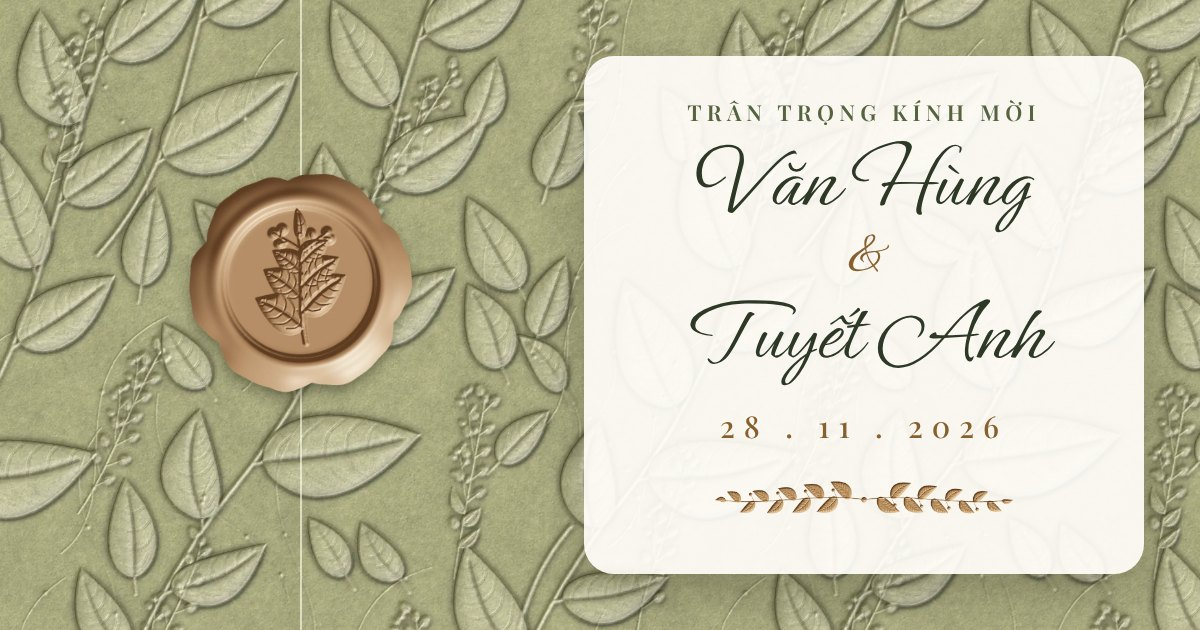
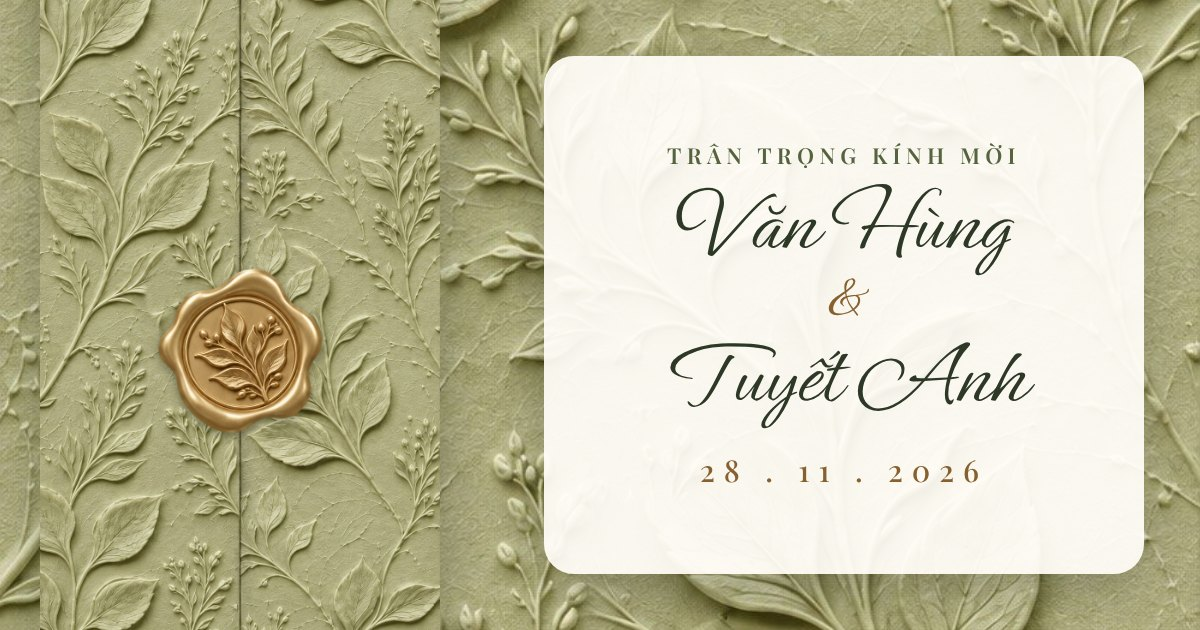
Mẫu xanh pastel: dùng ảnh bìa của chủ thiệp cho bìa, trang trong và giấy kem
- Tách dấu sáp khỏi ảnh bìa thành ảnh riêng nền trong suốt; vá nền chỗ dấu sáp
  bằng hoạ tiết cùng cánh; căn đường gáp vào giữa ảnh (assets/bia/bia.jpg)
- Dấu sáp đặt đúng vị trí trên ảnh (cover.sealAt), vẫn nhấc lên khi mở thiệp
- Trang trong: ghép hai cánh bỏ đường gáp, dùng cho đầu thiệp, lời mời, câu chuyện
- Giấy kem dập nổi nhẹ làm từ chính hoạ tiết lá của ảnh, ô lặp liền theo chiều dọc
- Phong bì quà dùng dấu sáp mới; ảnh chia sẻ link và ảnh README cập nhật
- tools/hoa-tiet: thêm tach_bia.py và giay_kem_tu_anh.py

Claude-Session: https://claude.ai/code/session_015XKduHNmYjq2tWTLnQVHa5

diff --git a/xanh-pastel/js/main.js b/xanh-pastel/js/main.js
@@ -35,25 +35,40 @@
     sprig: function () { return motif('canh-la-vang.webp'); },
     garland: function () { return motif('day-la-vang.webp'); },
   };
+  /* ---------- Ảnh bìa của chủ thiệp (config.js → cover) ---------- */
   var cov = W.cover || {};
+  function cssUrl(p) { return 'url("' + new URL(p, location.href).href.replace(/"/g, '%22') + '")'; }
   var SEAL = '<img class="seal-img" src="' + esc(cov.seal || 'assets/dau-sap-vang.webp') + '" alt="" aria-hidden="true" decoding="async">';
   if (cov.seal) body.classList.add('custom-seal');
-  // Ảnh bìa đã mua bản quyền: phủ kín 2 cánh bìa (mỗi cánh một nửa ảnh) và phần đầu thiệp
+  if (cov.inner) { root.style.setProperty('--inner-paper', cssUrl(cov.inner)); body.classList.add('custom-inner'); }
+  if (cov.cream) root.style.setProperty('--cream-paper', cssUrl(cov.cream));
+  // Bìa: hai cánh ghép thành đúng một ảnh phủ kín màn hình; dấu sáp đặt đúng chỗ của nó trên ảnh
+  var coverReady = Promise.resolve();
   if (cov.paper) {
     var coverImg = new Image();
-    root.style.setProperty('--cover-paper', 'url("' + new URL(cov.paper, location.href).href.replace(/"/g, '%22') + '")');
+    root.style.setProperty('--cover-paper', cssUrl(cov.paper));
     body.classList.add('custom-cover');
     var fitCover = function () {
       if (!coverImg.naturalWidth) return;
-      var gw = Math.min(window.innerWidth, 480), gh = window.innerHeight;
+      var vw = window.innerWidth, gw = Math.min(vw, 480), gh = window.innerHeight;
       var k = Math.max(gw / coverImg.naturalWidth, gh / coverImg.naturalHeight);
       var w = coverImg.naturalWidth * k, h = coverImg.naturalHeight * k;
       root.style.setProperty('--cov-size', w + 'px ' + h + 'px');
       root.style.setProperty('--cov-x-l', (gw - w) / 2 + 'px');
       root.style.setProperty('--cov-x-r', (gw - w) / 2 - gw / 2 + 'px');
       root.style.setProperty('--cov-y', (gh - h) / 2 + 'px');
+      var at = cov.sealAt, go = $('#gateOpen');
+      if (at && go) {
+        go.style.left = (vw - gw) / 2 + (gw - w) / 2 + at.x * w + 'px';
+        go.style.top = (gh - h) / 2 + at.y * h + 'px';
+        go.style.width = at.w * w + 'px';
+      }
+      body.classList.add('cover-fit');
     };
-    coverImg.onload = fitCover;
+    coverReady = new Promise(function (res) {
+      coverImg.onload = function () { fitCover(); res(); };
+      coverImg.onerror = function () { body.classList.remove('custom-cover'); res(); };
+    });
     coverImg.src = cov.paper;
     window.addEventListener('resize', fitCover);
   }
@@ -546,6 +561,7 @@
   /* ---------- Bìa hiện ra khi phông chữ đã sẵn sàng ---------- */
   var readyDone = false;
   function ready() { if (!readyDone) { readyDone = true; body.classList.add('ready'); setTimeout(buildOpening, 60); } }
-  if (document.fonts && document.fonts.ready) document.fonts.ready.then(ready);
-  setTimeout(ready, 1500);
+  // chờ phông chữ và ảnh bìa (tối đa ~2,5 giây) rồi mới cho dấu sáp hiện ra
+  Promise.all([document.fonts && document.fonts.ready ? document.fonts.ready : null, coverReady]).then(ready);
+  setTimeout(ready, 2500);
 })();

diff --git a/xanh-pastel/css/style.css b/xanh-pastel/css/style.css
@@ -57,12 +57,16 @@ section { position: relative; }
 /* ---------- Giấy dập nổi lá cây (ô lặp liền mạch) ---------- */
 .sage, .cream { background-size: 100% auto; background-repeat: repeat-y; background-position: center var(--by, 0px); }
 .sage { background-color: var(--sage); background-image: var(--sage-paper); }
-/* Ảnh bìa đã mua (cover.paper): 2 cánh ghép thành một ảnh phủ kín màn hình, đầu thiệp dùng cùng ảnh */
+/* Ảnh bìa của chủ thiệp (cover.paper): 2 cánh ghép thành một ảnh phủ kín màn hình; ảnh đã có sẵn đường gáp và bóng */
 .custom-cover .door { background-size: var(--cov-size, cover); background-repeat: no-repeat; }
+.custom-cover:not(.cover-fit) .door { background-image: none; }
 .custom-cover .door.l { background-position: var(--cov-x-l, 0) var(--cov-y, 0); }
-.custom-cover .door.r { background-position: var(--cov-x-r, 0) var(--cov-y, 0); }
-.custom-cover .hero { background-image: var(--cover-paper); background-size: cover; background-position: center; background-repeat: no-repeat; }
-.custom-seal .gate-seal .sheen { display: none; }
+.custom-cover .door.r { background-position: var(--cov-x-r, 0) var(--cov-y, 0); box-shadow: none; }
+.custom-cover .door.r::after { display: none; }
+.custom-cover:not(.custom-inner) .hero { background-image: var(--cover-paper); background-size: cover; background-position: center; background-repeat: no-repeat; }
+/* Trang trong (cover.inner): đầu thiệp, lời mời, câu chuyện — mỗi phần phủ kín một ảnh, không lặp */
+.custom-inner .sage { background-image: var(--inner-paper); background-size: cover; background-position: center; background-repeat: no-repeat; }
+.custom-seal .gate-seal .sheen { left: 12%; top: 11%; width: 76%; }
 .cream { background-color: var(--cream); background-image: var(--cream-paper); }
 
 /* ---------- Mép giấy xé ---------- */

diff --git a/xanh-pastel/js/config.js b/xanh-pastel/js/config.js
@@ -18,10 +18,12 @@ window.WEDDING = {
   cover: {
     hint: 'Chạm để mở thiệp',
     guestPrefix: 'Thân gửi', // hiện trên bìa khi link có ?to=
-    // ẢNH BÌA ĐÃ MUA BẢN QUYỀN (ví dụ từ Petit Moments). Để trống thì dùng giấy + dấu sáp tự vẽ.
-    // Chép file vào xanh-pastel/assets/bia/ rồi ghi tên, ví dụ  paper: 'assets/bia/giay.jpg',
-    paper: '', // nền giấy KHÔNG có dấu sáp (dọc, nên 1080×1920 trở lên): dùng cho 2 cánh bìa và đầu thiệp
-    seal: '',  // dấu sáp riêng, nền trong suốt (PNG/WebP): nằm giữa đường gáp, nhấc lên khi mở
+    // ẢNH BÌA CỦA CHỦ THIỆP (thư mục xanh-pastel/assets/bia/). Để trống cả 4 dòng thì dùng giấy + dấu sáp tự vẽ.
+    paper: 'assets/bia/bia.jpg',          // bìa 2 cánh, đã xoá dấu sáp; đường gáp nằm đúng giữa ảnh
+    seal: 'assets/bia/dau-sap.webp',      // dấu sáp tách riêng, nền trong suốt; nhấc lên khi mở
+    sealAt: { x: 0.4829, y: 0.4746, w: 0.4839 }, // vị trí dấu sáp trên ảnh bìa: tâm (x, y) và bề rộng, theo tỉ lệ ảnh
+    inner: 'assets/bia/trang-trong.jpg',  // trang trong (2 cánh ghép liền, không đường gáp): đầu thiệp, lời mời, câu chuyện
+    cream: 'assets/bia/giay-kem.jpg',     // giấy kem cùng hoạ tiết lá: nền các phần còn lại
   },
 
   families: {

diff --git a/tools/hoa-tiet/tach_bia.py b/tools/hoa-tiet/tach_bia.py
@@ -1,0 +1,131 @@
+# Tách ảnh bìa của chủ thiệp: dấu sáp riêng (nền trong suốt) + nền giấy đã xoá dấu sáp + trang trong (không đường gáp)
+# Dùng: python3 tools/hoa-tiet/tach_bia.py anh-bia.png thu-muc-ra   (sửa SEAM = cột đường gáp, cy/cx = một điểm trên dấu sáp nếu đổi ảnh khác)
+import sys, os, math
+import numpy as np
+from PIL import Image, ImageFilter
+
+
+def gblur(a, s):
+    """Làm mờ Gauss bằng FFT."""
+    if s <= 0:
+        return a
+    hh, ww = a.shape
+    fy = np.fft.fftfreq(hh)[:, None]
+    fx = np.fft.rfftfreq(ww)[None, :]
+    g = np.exp(-2 * (math.pi ** 2) * (s ** 2) * (fx ** 2 + fy ** 2))
+    return np.fft.irfft2(np.fft.rfft2(a) * g, s=a.shape)
+
+src, out = sys.argv[1], sys.argv[2]
+os.makedirs(out, exist_ok=True)
+im = Image.open(src).convert('RGB')
+A = np.asarray(im).astype(np.float64)
+h, w, _ = A.shape
+SEAM = 474
+
+
+def flood(mask, seeds):
+    """Lan từ các điểm hạt giống trong mặt nạ (4 hướng), không cần scipy."""
+    reach = np.zeros_like(mask)
+    for (y, x) in seeds:
+        reach[y, x] = mask[y, x]
+    while True:
+        n = reach.copy()
+        n[1:] |= reach[:-1]; n[:-1] |= reach[1:]; n[:, 1:] |= reach[:, :-1]; n[:, :-1] |= reach[:, 1:]
+        n &= mask
+        if (n == reach).all():
+            return reach
+        reach = n
+
+
+def dilate(m, r):
+    return gblur(m.astype(float), r) > .02
+
+
+def erode(m, r):
+    return gblur(m.astype(float), r) > .98
+
+
+# ---- 1. Mặt nạ dấu sáp: điểm vàng (đỏ − lam lớn), lan từ tâm, lấp lỗ ----
+R, G, B = A[..., 0], A[..., 1], A[..., 2]
+gold = (R - B > 62) & (R > 95)
+cy, cx = 760, 430
+gold[:300] = False; gold[1100:] = False
+blob = flood(gold, [(cy, cx), (700, 430), (820, 430), (760, 380), (760, 480)])
+# lấp lỗ: phần không lan tới được từ mép ảnh
+outside = flood(~blob, [(0, 0), (h - 1, w - 1), (0, w - 1), (h - 1, 0)])
+blob = ~outside
+# làm tròn mép: mở nhẹ để bỏ gai
+blob = erode(dilate(blob, 1.2), 1.2)
+ys, xs = np.nonzero(blob)
+print('seal bbox', xs.min(), xs.max(), ys.min(), ys.max(), 'area', blob.sum())
+
+# ---- 2. Ảnh dấu sáp nền trong suốt (mép co 1px để không dính viền xanh) + bóng mềm ----
+core = erode(blob, .9)
+alpha = np.clip(gblur(core.astype(float), .7) * 1.15, 0, 1)
+pad = 40
+x0, x1, y0, y1 = xs.min() - pad, xs.max() + pad, ys.min() - pad, ys.max() + pad
+# màu mép: kéo màu từ trong ra để tránh viền xanh
+col = A.copy()
+inner = erode(blob, 3)
+for _ in range(6):
+    m = inner.astype(float)
+    s = gblur(m, 1.5)
+    filled = np.stack([gblur(col[..., c] * m, 1.5) for c in range(3)], -1) / np.maximum(s, 1e-6)[..., None]
+    grow = (~inner) & (s > .2)
+    col[grow] = filled[grow]
+    inner = inner | grow
+col = np.where(erode(blob, 3)[..., None], A, col)
+shadow = gblur(np.roll(blob.astype(float), 7, 0), 9) * .45
+sh_a = shadow * (1 - alpha)
+out_a = alpha + sh_a
+rgb = (col * alpha[..., None] + np.array([40, 44, 24]) * sh_a[..., None]) / np.maximum(out_a, 1e-6)[..., None]
+seal = np.dstack([np.clip(rgb, 0, 255), np.clip(out_a * 255, 0, 255)])[y0:y1, x0:x1].astype(np.uint8)
+Image.fromarray(seal, 'RGBA').save(os.path.join(out, 'dau-sap.png'))
+print('seal png', seal.shape, 'box', x0, y0)
+
+# ---- 3. Vá nền chỗ dấu sáp (kèm bóng): chép vùng cùng cột ở chỗ khác của cùng cánh, hoà mép ----
+hole = dilate(blob, 9)
+feather = np.clip(gblur(hole.astype(float), 7) * 1.6, 0, 1)
+best = {}
+ring = dilate(hole, 6) & ~hole
+for side, xr in (('L', (0, SEAM + 3)), ('R', (SEAM - 3, w))):
+    sel = np.zeros((h, w), bool); sel[:, xr[0]:xr[1]] = True
+    rg = ring & sel
+    ry, rx = np.nonzero(rg)
+    cand = []
+    for dy in list(range(-620, -330, 6)) + list(range(330, 620, 6)):
+        sy = ry + dy
+        ok = (sy >= 0) & (sy < h)
+        if ok.mean() < .99:
+            continue
+        d = ((A[sy[ok], rx[ok]] - A[ry[ok], rx[ok]]) ** 2).mean()
+        cand.append((d, dy))
+    cand.sort()
+    best[side] = cand[0][1]
+print('chosen offsets', best)
+P = A.copy()
+for side, xr in (('L', (0, SEAM)), ('R', (SEAM, w))):
+    dy = best[side]
+    src_sh = np.roll(A, -dy, 0)
+    sl = slice(xr[0], xr[1])
+    P[:, sl] = A[:, sl] * (1 - feather[:, sl, None]) + src_sh[:, sl] * feather[:, sl, None]
+# giữ nguyên dải đường gáp (lấy từ nguồn để liền mạch theo chiều dọc)
+paper = P.astype(np.uint8)
+# căn đường gáp vào giữa ảnh
+L = SEAM - (w - SEAM)
+cover = paper[:, L:] if L > 0 else paper
+Image.fromarray(cover).save(os.path.join(out, 'bia.jpg'), quality=90)
+print('cover', cover.shape, 'seam at', SEAM - max(L, 0))
+sx = (x0 + x1) / 2 - max(L, 0)
+sy = (y0 + y1) / 2
+print('sealAt x=%.4f y=%.4f w=%.4f' % (sx / cover.shape[1], sy / cover.shape[0], (x1 - x0) / cover.shape[1]))
+
+# ---- 4. Trang trong: ghép hai cánh bỏ dải đường gáp, hoà chỗ nối ----
+lcut, rcut = SEAM - 26, SEAM + 14
+left, right = paper[:, :lcut].astype(float), paper[:, rcut:].astype(float)
+ov = 36
+wgt = np.linspace(0, 1, ov)[None, :, None]
+join = left[:, -ov:] * (1 - wgt) + right[:, :ov] * wgt
+inner_pg = np.concatenate([left[:, :-ov], join, right[:, ov:]], 1)
+Image.fromarray(np.clip(inner_pg, 0, 255).astype(np.uint8)).save(os.path.join(out, 'trang-trong.jpg'), quality=90)
+print('inner', inner_pg.shape)

diff --git a/tools/hoa-tiet/giay_kem_tu_anh.py b/tools/hoa-tiet/giay_kem_tu_anh.py
@@ -1,0 +1,27 @@
+# Giấy kem dập nổi nhẹ làm từ trang trong của ảnh bìa (giữ hoạ tiết lá, ô lặp liền theo chiều dọc)
+# Dùng: python3 tools/hoa-tiet/giay_kem_tu_anh.py trang-trong.jpg giay-kem.jpg 0.34
+import sys, math
+import numpy as np
+from PIL import Image
+
+def gblur(a, s):
+    hh, ww = a.shape
+    fy = np.fft.fftfreq(hh)[:, None]; fx = np.fft.rfftfreq(ww)[None, :]
+    g = np.exp(-2 * (math.pi ** 2) * (s ** 2) * (fx ** 2 + fy ** 2))
+    return np.fft.irfft2(np.fft.rfft2(a) * g, s=a.shape)
+
+src, dst = sys.argv[1], sys.argv[2]
+A = np.asarray(Image.open(src).convert('RGB')).astype(float)
+L = A @ np.array([.299, .587, .114])
+detail = L - gblur(L, 40)                      # chỉ giữ phần nổi khối, bỏ sáng tối lớn
+h = L.shape[0]
+# nối liền đầu/cuối: trộn với bản lệch nửa ảnh theo trọng số sin²
+t = np.arange(h) / h
+wgt = (np.sin(math.pi * t) ** 2)[:, None]
+d2 = np.roll(detail, h // 2, 0)
+seam_free = detail * wgt + d2 * (1 - wgt)
+base = np.array([241, 242, 234], float)
+amt = float(sys.argv[3]) if len(sys.argv) > 3 else .42
+cream = base[None, None, :] + seam_free[..., None] * amt * np.array([1.0, 1.0, .92])
+Image.fromarray(np.clip(cream, 0, 255).astype(np.uint8)).save(dst, quality=86)
+print('avg', cream.reshape(-1, 3).mean(0).round(1), cream.shape)

diff --git a/tools/hoa-tiet/README.md b/tools/hoa-tiet/README.md
@@ -21,3 +21,14 @@ Rồi chuyển sang WebP và chép vào `xanh-pastel/assets/`:
 | `garland.png` | `day-la-vang.webp` | kết phần lịch, kết thiệp |
 
 Đổi màu: sửa các bộ màu trong `shade(...)` (giấy) và `GOLD` / `GOLD2` (vàng) rồi chạy lại.
+
+## Dùng ảnh bìa có sẵn (đang dùng)
+
+Bìa hiện tại làm từ ảnh bìa của chủ thiệp (một ảnh có sẵn dấu sáp):
+
+```bash
+python3 tools/hoa-tiet/tach_bia.py anh-bia.png /tmp/bia            # bia.jpg, dau-sap.png, trang-trong.jpg + in ra sealAt
+python3 tools/hoa-tiet/giay_kem_tu_anh.py /tmp/bia/trang-trong.jpg /tmp/bia/giay-kem.jpg 0.34
+```
+
+Chép kết quả vào `xanh-pastel/assets/bia/` (dấu sáp lưu thành `dau-sap.webp`) và dán dòng `sealAt` in ra vào `config.js`.
